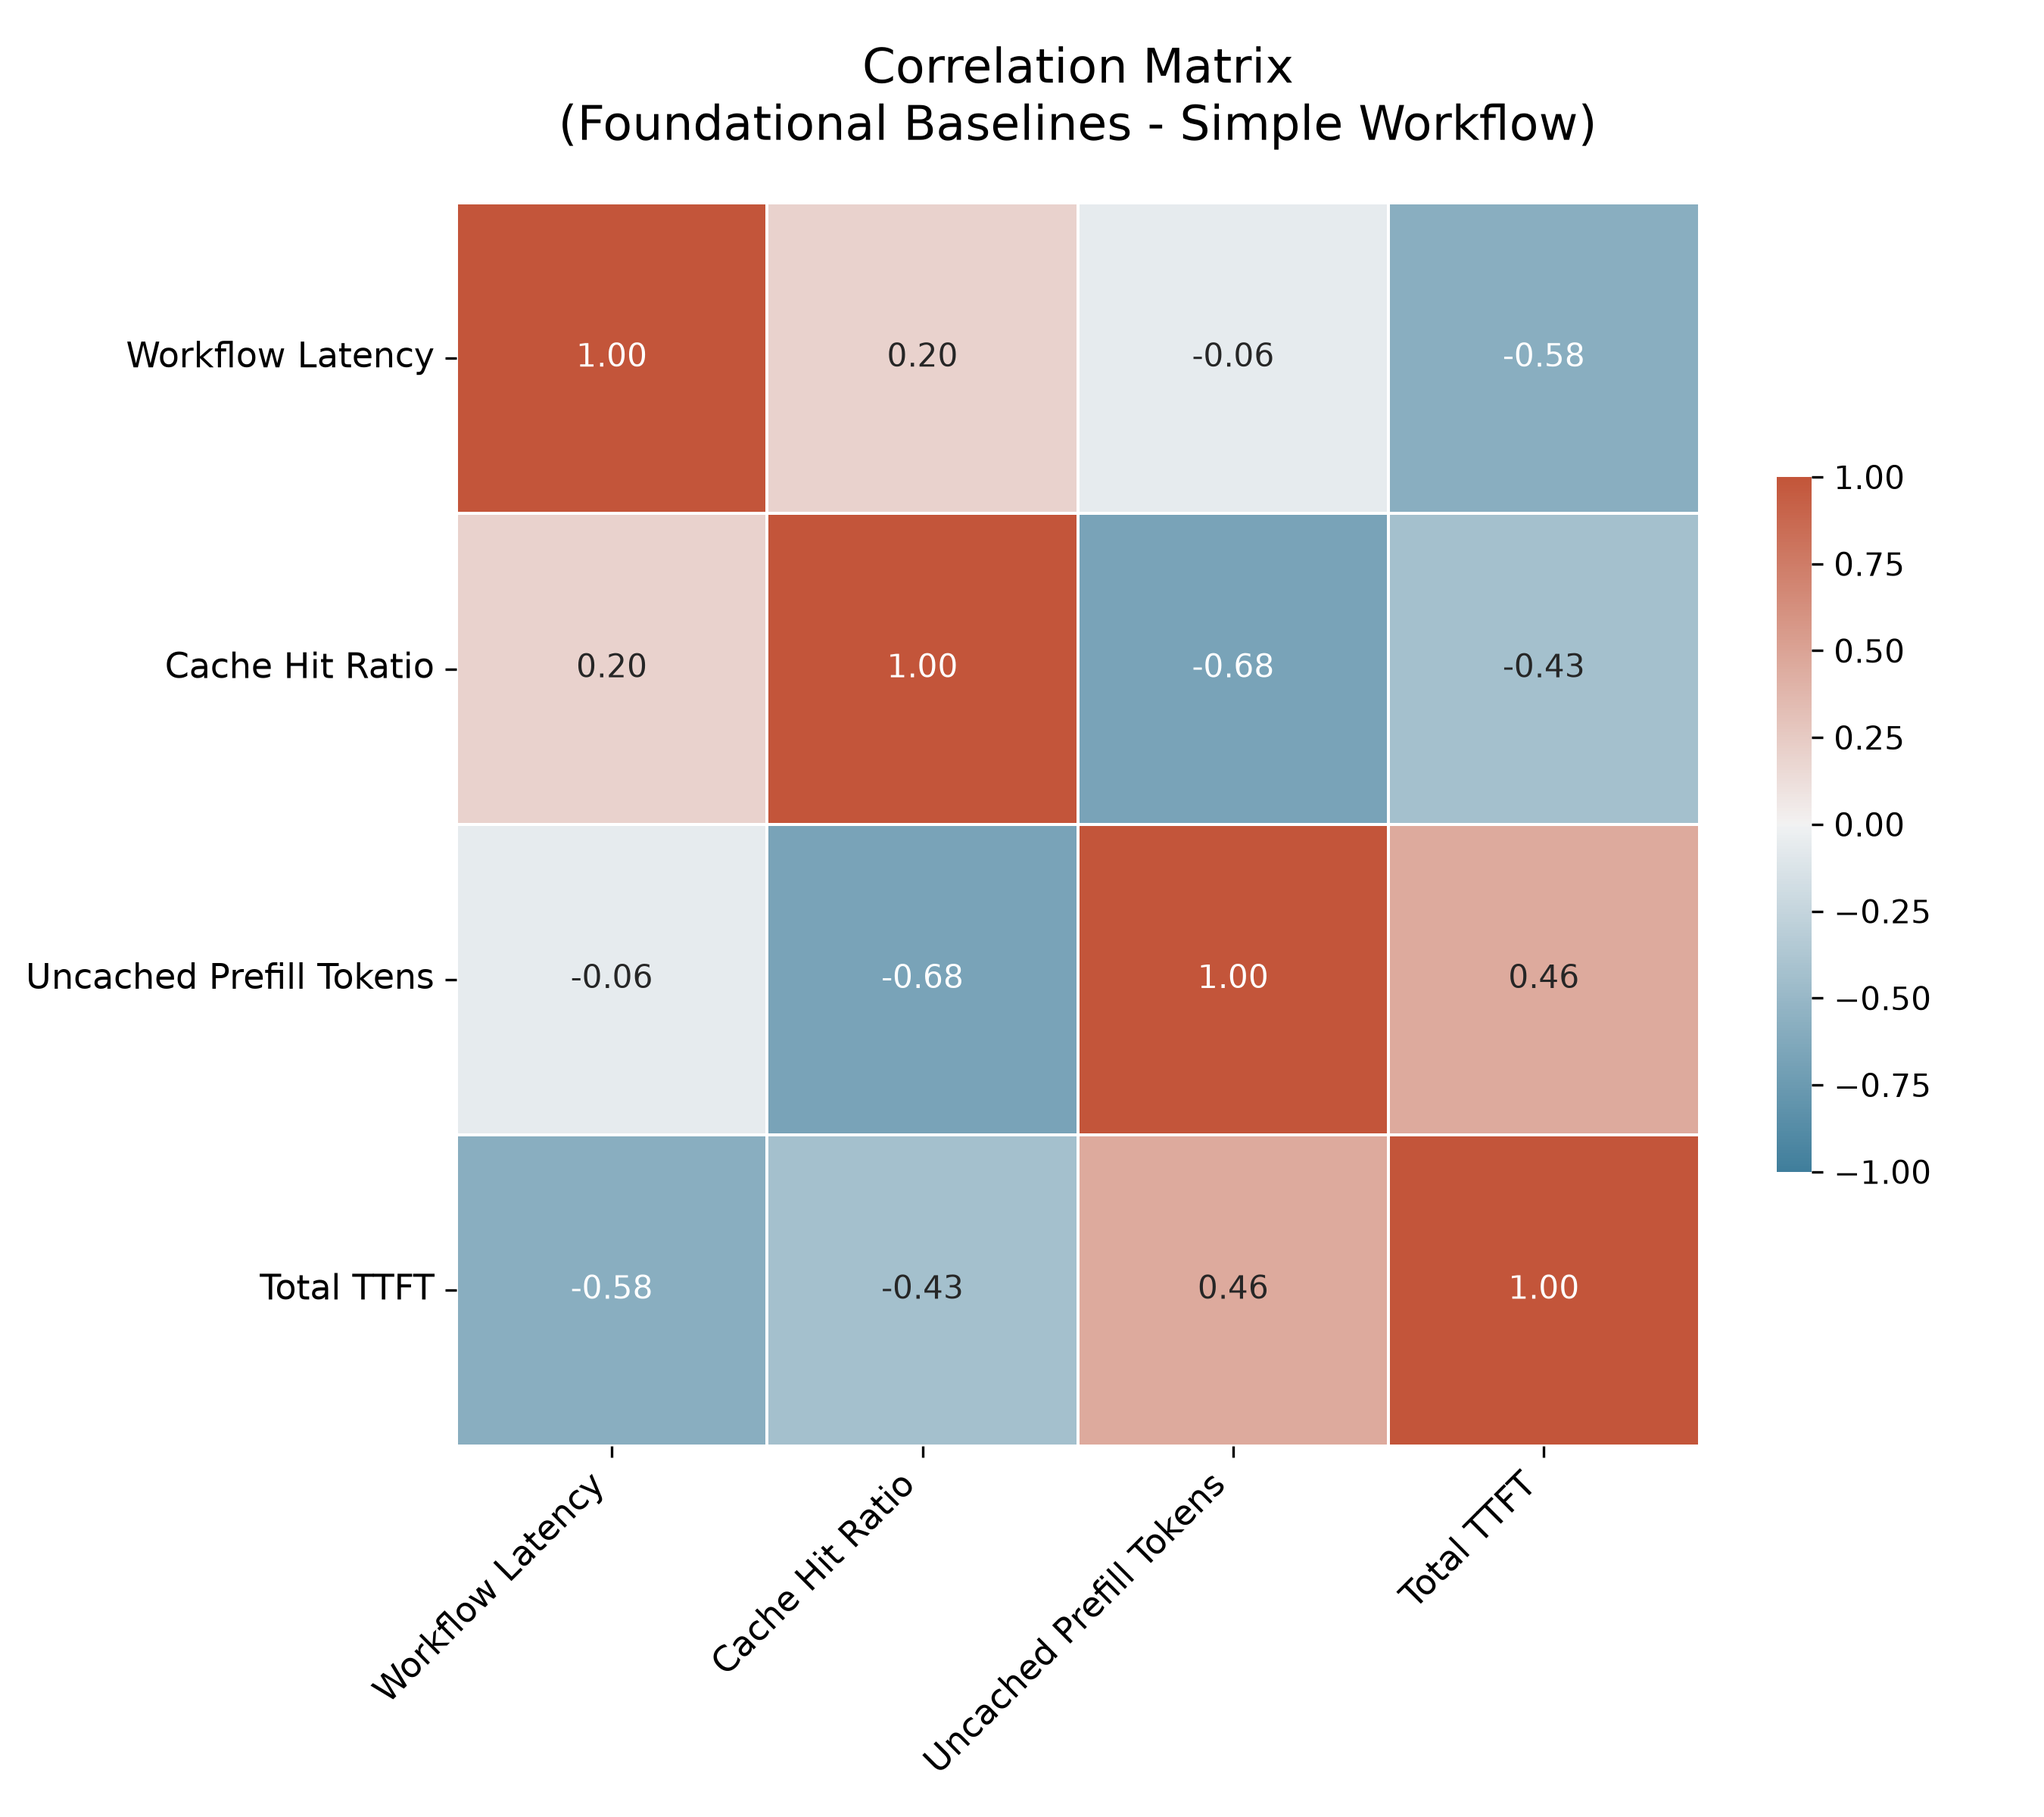
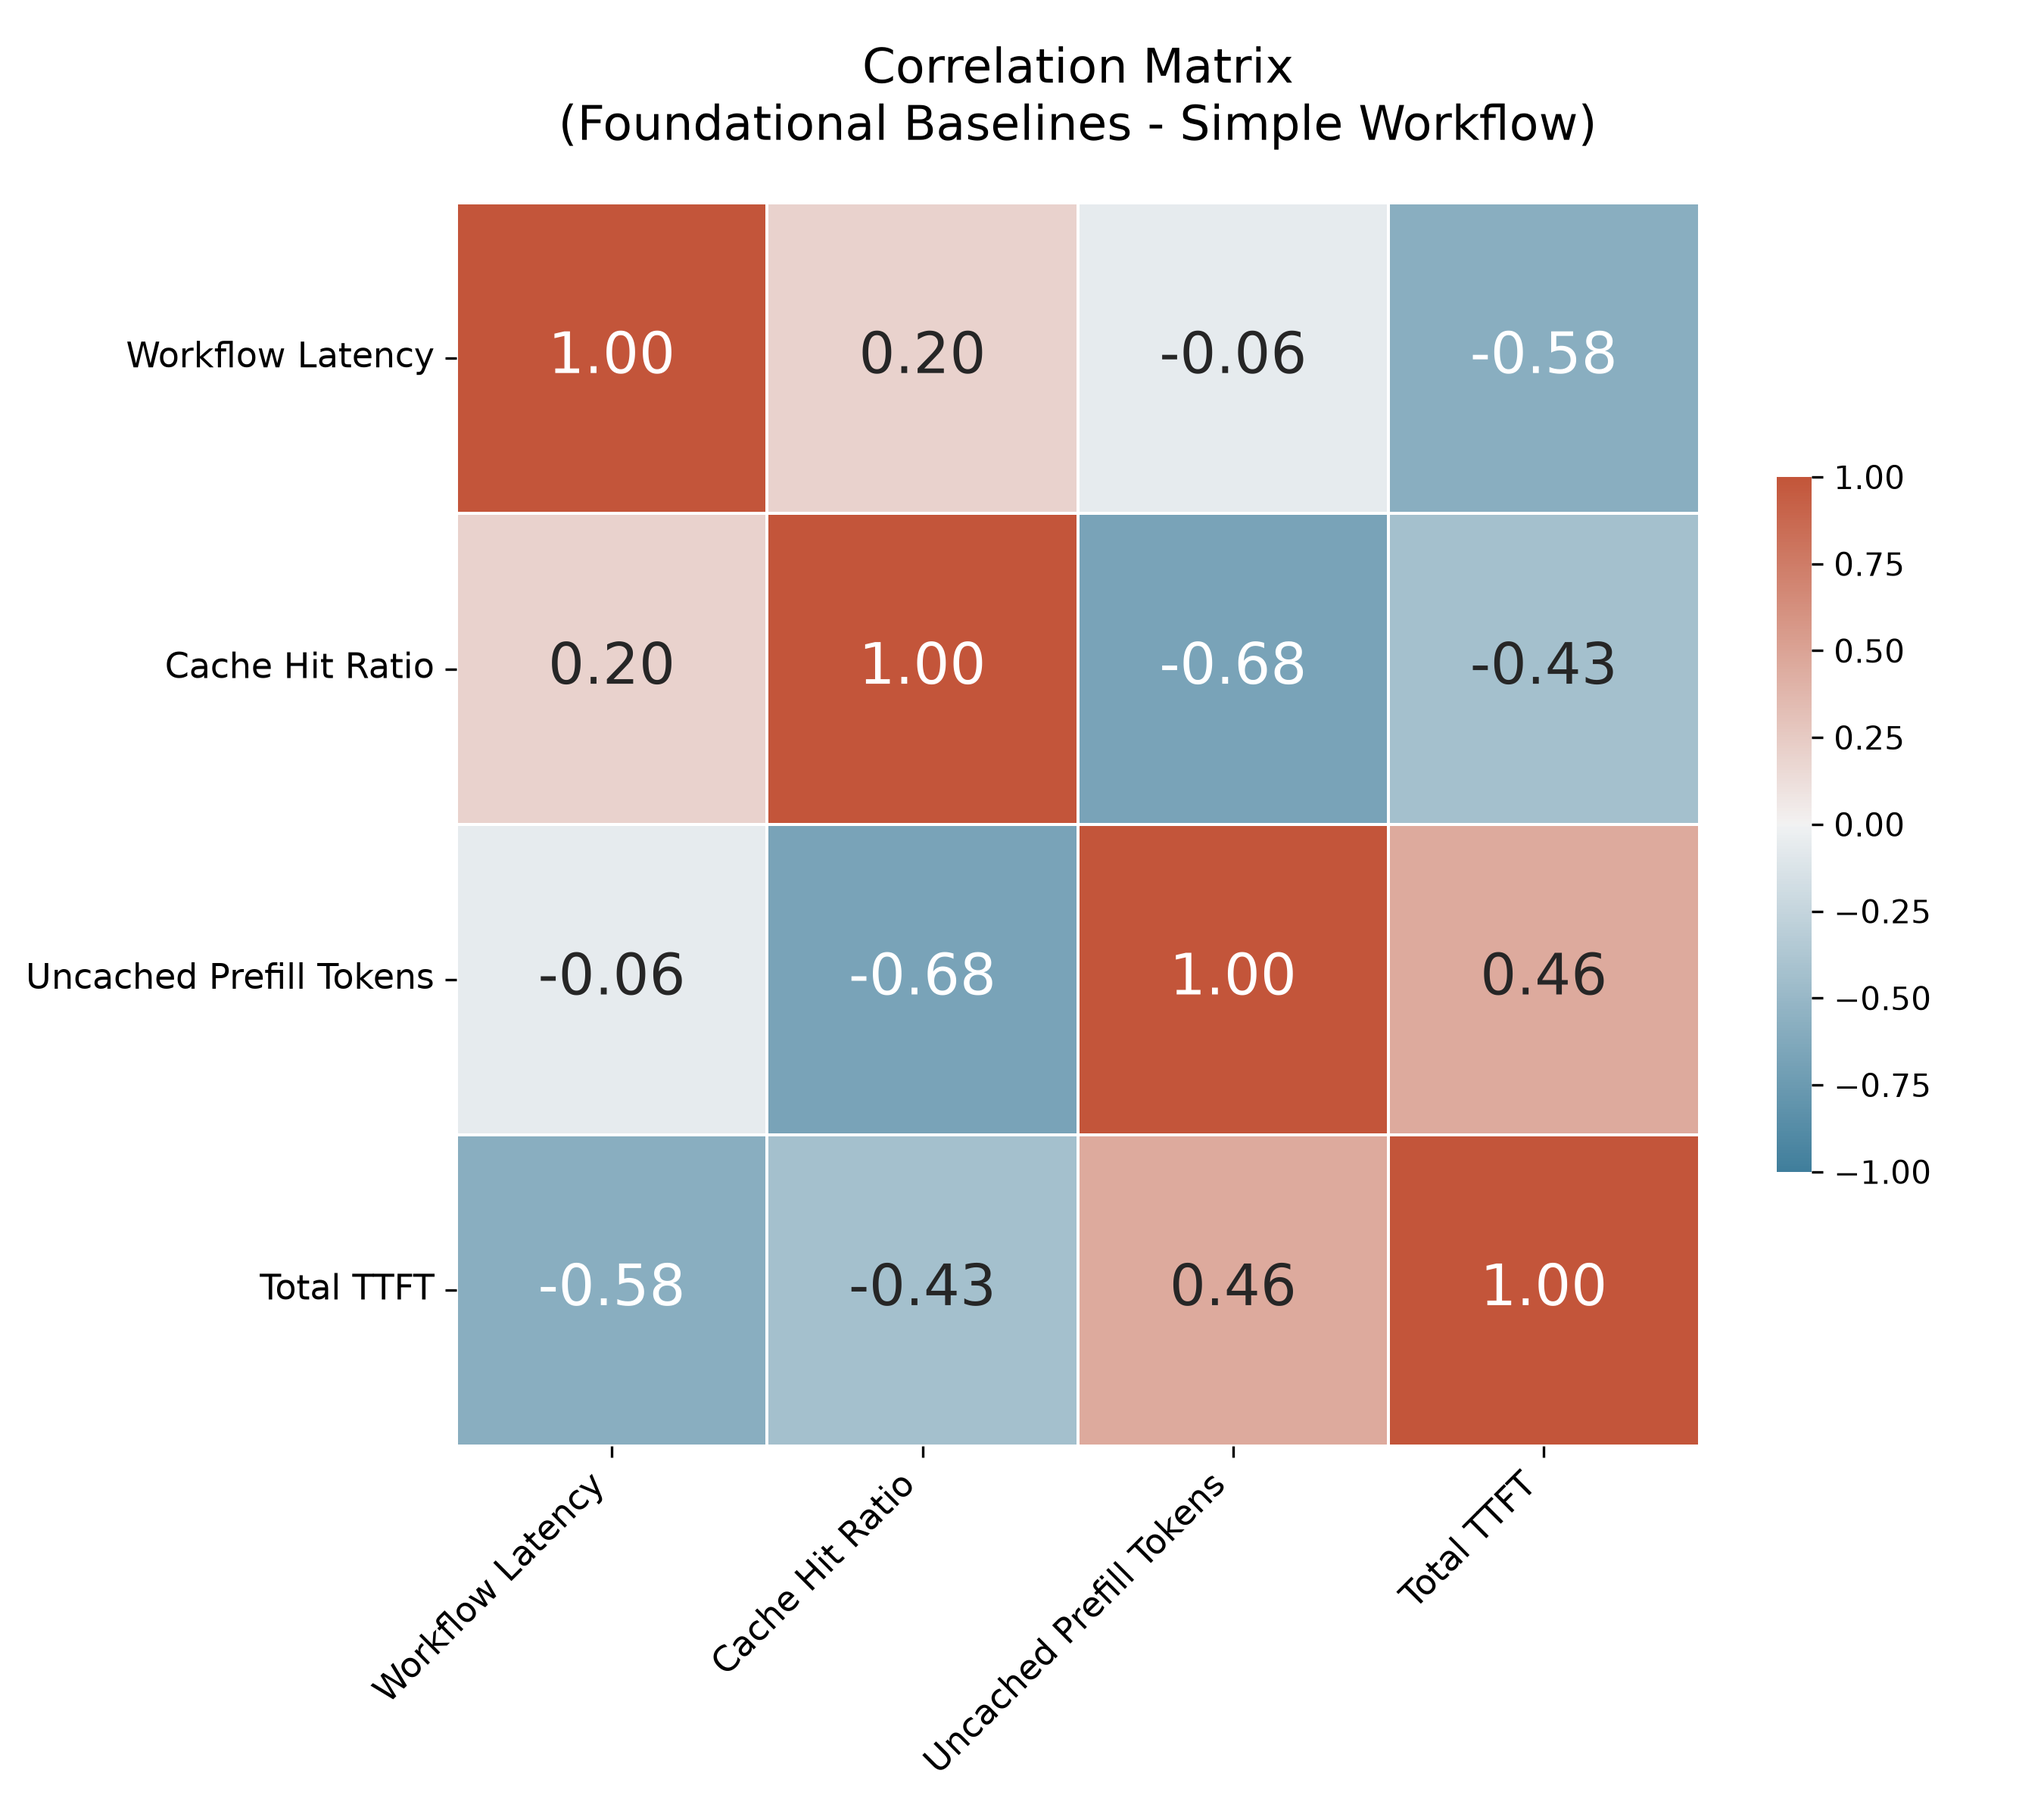
Update: Rename PLA -> Workflow_aware in chart, and make the number size in corr matrix bigger

diff --git a/visualization/visualization.py b/visualization/visualization.py
@@ -12,36 +12,36 @@ from pathlib import Path
 CURRENT_DIR = Path(__file__).resolve().parent
 PROJECT_ROOT = CURRENT_DIR.parent
 
-CLEAN_DATA_DIR = PROJECT_ROOT / "clean_data" / "simple_workflow"
-RAW_DIR = PROJECT_ROOT / "raw_result" / "simple_workflow"
+CLEAN_DATA_DIR = PROJECT_ROOT / "clean_data" / "advanced_workflow"
+RAW_DIR = PROJECT_ROOT / "raw_result" / "advanced_workflow"
 VIS_DIR = PROJECT_ROOT / "visualization_data"
 VIS_DIR.mkdir(parents=True, exist_ok=True)
 
 # List of baselines to compare
-METHODS = [
-    "flat_prompt", 
-    "static_first", 
-    "fixed_semantic", 
-    "pla_token_hash"
-]
-
 # METHODS = [
-#     "pla_token_hash",
-#     "pla_character"
+#     "flat_prompt", 
+#     "static_first", 
+#     "fixed_semantic", 
+#     "pla_token_hash"
 # ]
 
-# Better display names for plots
-METHOD_LABELS = {
-    "flat_prompt": "Flat Prompt",
-    "static_first": "Static-First",
-    "fixed_semantic": "Fixed Semantic",
-    "pla_token_hash": "PLA (Token Level)"
-}
+METHODS = [
+    "pla_token_hash",
+    "pla_character"
+]
 
+# Better display names for plots
 # METHOD_LABELS = {
-#     "pla_token_hash": "PLA (Token Hash)",
-#     "pla_character": "PLA (Character)"
+#     "flat_prompt": "Flat Prompt",
+#     "static_first": "Static-First",
+#     "fixed_semantic": "Fixed Semantic",
+#     "pla_token_hash": "Workflow-aware"
 # }
+
+METHOD_LABELS = {
+    "pla_token_hash": "Token_Level",
+    "pla_character": "Character_Level"
+}
 
 # Set global Seaborn style
 sns.set_theme(style="whitegrid", context="paper", font_scale=1.2)

diff --git a/visualization/plot_correlation_matrix.py b/visualization/plot_correlation_matrix.py
@@ -114,6 +114,7 @@ def plot_correlation_matrix(df: pd.DataFrame):
         corr_matrix, 
         annot=True,          # Show the correlation values
         fmt=".2f",           # Format to 2 decimal places
+        annot_kws={"size": 18},
         cmap=cmap,           # Color palette
         vmax=1.0,            # Max value for color bar
         vmin=-1.0,           # Min value for color bar
